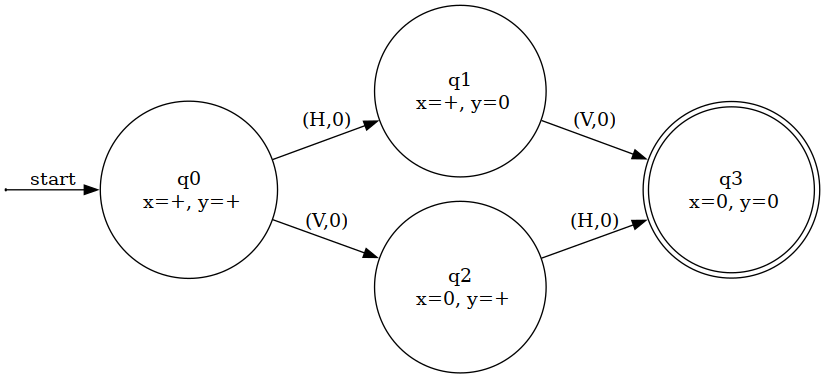
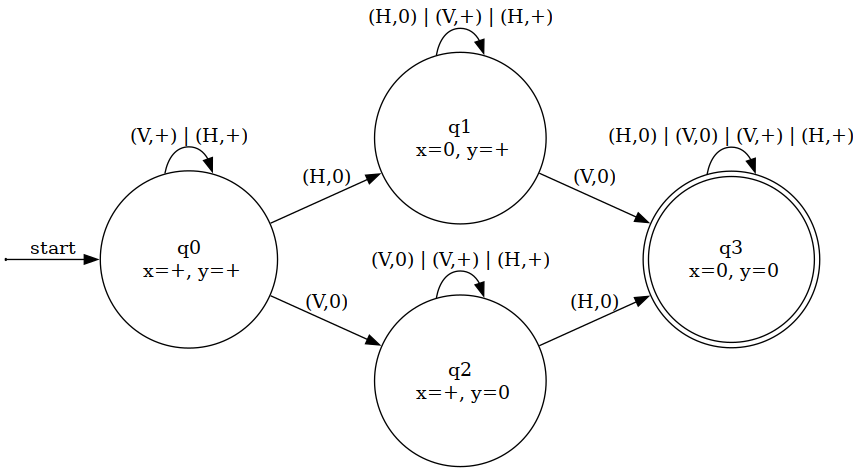
minor fixes to be similar with report

diff --git a/src/main.py b/src/main.py
@@ -6,8 +6,7 @@ from src.model_nozzle import *
 import src
 import argparse
 
-SQUARE = [(10, 10), (100, 10), (100, 100), (10, 100), (10, 10)]
-
+SQUARE = [(0.01, 0.01), (0.1, 0.01), (0.1, 0.1), (0.01, 0.1), (0.01, 0.01)]
 
 def sim_square():
     printer = Printer()
@@ -19,18 +18,19 @@ def sim_square():
 def sim_square_empty_filament():
     printer = Printer()
     printer.target_points = SQUARE
-    printer.x[9] = 0.00005
+    printer.new_roll = 1.5
+    printer.x[9] = 0.001
     printer.run(10000)
     printer.plot()
 
 
-def ellipse_input_response():
-    U, X0 = ellipse_input()
+def ellipse_input_response(K=1, L=3):
+    U, X0 = ellipse_input(K,L)
     input_response(U, X0)
 
 
-def heart_input_response():
-    U, X0 = heart_input()
+def heart_input_response(K=5):
+    U, X0 = heart_input(K)
     input_response(U, X0)
 
 
@@ -41,6 +41,7 @@ def main():
         required=True,
         choices=["square", "square_empty", "ellipse", "heart", "pde", "nozzle_step"],
     )
+    parser.add_argument("params", nargs="*", type=float)
     args = parser.parse_args()
 
     match args.run:
@@ -49,13 +50,13 @@ def main():
         case "square_empty":
             sim_square_empty_filament()
         case "ellipse":
-            ellipse_input_response()
+            ellipse_input_response(*args.params)
         case "heart":
-            heart_input_response()
+            heart_input_response(*args.params)
         case "pde":
             pde_sim()
         case "nozzle_step":
-            step_response()
+            step_response(*args.params)
 
 
 if __name__ == "__main__":    

diff --git a/src/graphs/parked_detection.py b/src/graphs/parked_detection.py
@@ -11,14 +11,26 @@ machine = GraphMachine(
 
 machine.add_transition("(H,0)", "q0", "q1")
 machine.add_transition("(V,0)", "q0", "q2")
+machine.add_transition("(V,+)", "q0", "q0")
+machine.add_transition("(H,+)", "q0", "q0")
 machine.add_transition("(V,0)", "q1", "q3")
+machine.add_transition("(H,+)", "q1", "q1")
+machine.add_transition("(H,0)", "q1", "q1")
+machine.add_transition("(V,+)", "q1", "q1")
 machine.add_transition("(H,0)", "q2", "q3")
+machine.add_transition("(V,+)", "q2", "q2")
+machine.add_transition("(V,0)", "q2", "q2")
+machine.add_transition("(H,+)", "q2", "q2")
+machine.add_transition("(H,+)", "q3", "q3")
+machine.add_transition("(H,0)", "q3", "q3")
+machine.add_transition("(V,+)", "q3", "q3")
+machine.add_transition("(V,0)", "q3", "q3")
 
 
 subcomments = {
     "q0": "q0\n x=+, y=+",
-    "q1": "q1\n x=+, y=0",
-    "q2": "q2\n x=0, y=+",
+    "q1": "q1\n x=0, y=+",
+    "q2": "q2\n x=+, y=0",
     "q3": "q3\n x=0, y=0",
 }
 

diff --git a/src/printer.py b/src/printer.py
@@ -151,16 +151,16 @@ class Printer(object):
 
     def filament_usage(self):
         self.filament_empty_flag = self.x[9] < 0
-        self.filament_retracted_flag = self.x[9] > 10
-        self.filament_loaded_flag = self.x[9] < self.new_roll - 10
-        self.wiping_done = self.x[9] < -10
+        self.filament_retracted_flag = self.x[9] > 1
+        self.filament_loaded_flag = self.x[9] < self.new_roll - 1
+        self.wiping_done = self.x[9] < -1
 
     def feedback(self, x_ref, y_ref, heater):
         temp = self.heater(heater)
         pos = self.move_to(x_ref, y_ref)
         return pos and temp
 
-    def move_to(self, x_ref, y_ref, kp=0.8, kd=0.05):
+    def move_to(self, x_ref, y_ref, kp=0.1, kd=0.05):
         theta_l, theta_r = to_motor(x_ref, y_ref, self.c["r_m"])
         e_l = theta_l - self.x[0]
         e_r = theta_r - self.x[1]

diff --git a/src/printer_states.py b/src/printer_states.py
@@ -9,10 +9,6 @@ class StartState(State):
         return HeatingNozzleState()
     
 class PrintingState(State):
-    """
-    The state which indicates that there are limited device capabilities.
-    """
-
     def on_tick(self, printer):
         if printer.filament_color_change_flag:
             printer.filament_color_change_flag = False

diff --git a/src/dynamics.py b/src/dynamics.py
@@ -59,8 +59,7 @@ def ellipse_input(K=1, L=3):
     return U, X0
 
 
-def heart_input():
-    K = 10
+def heart_input(K = 10):
     # x = K * (12 * sin_omega_t - 4 * np.sin(3 * omega * t))
     d_x = K * omega * (12 * cos_omega_t - 12 * np.cos(3 * omega * t))
     dd_x = K * omega**2 * (-12 * sin_omega_t + 36 * np.sin(3 * omega * t))
